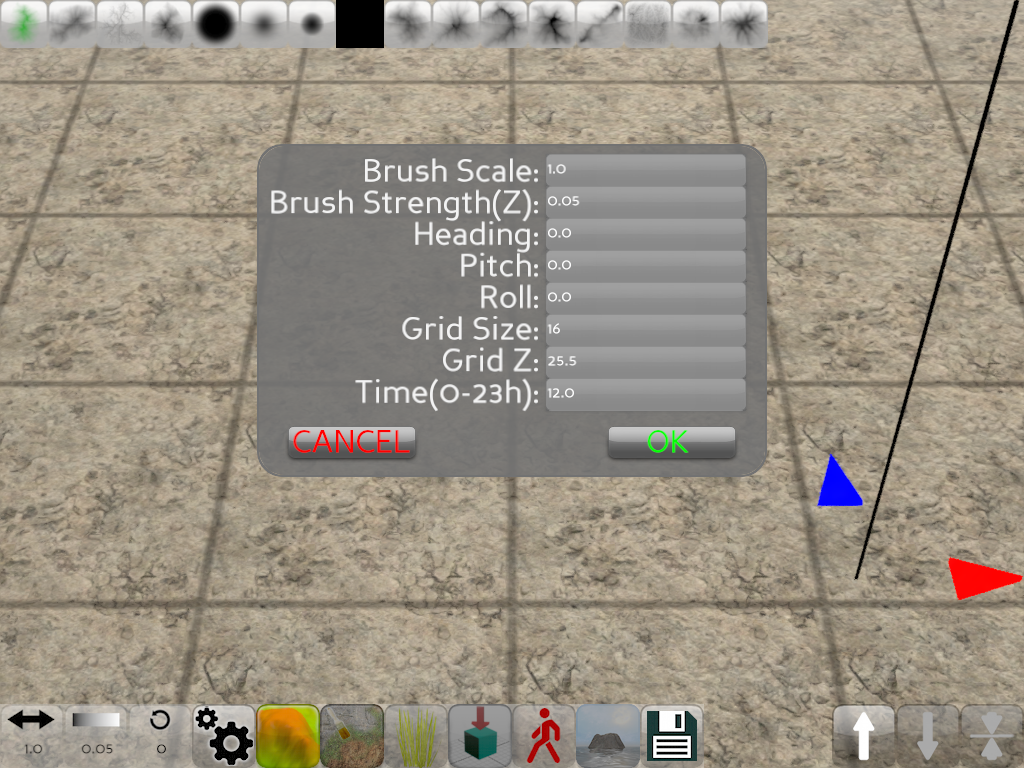
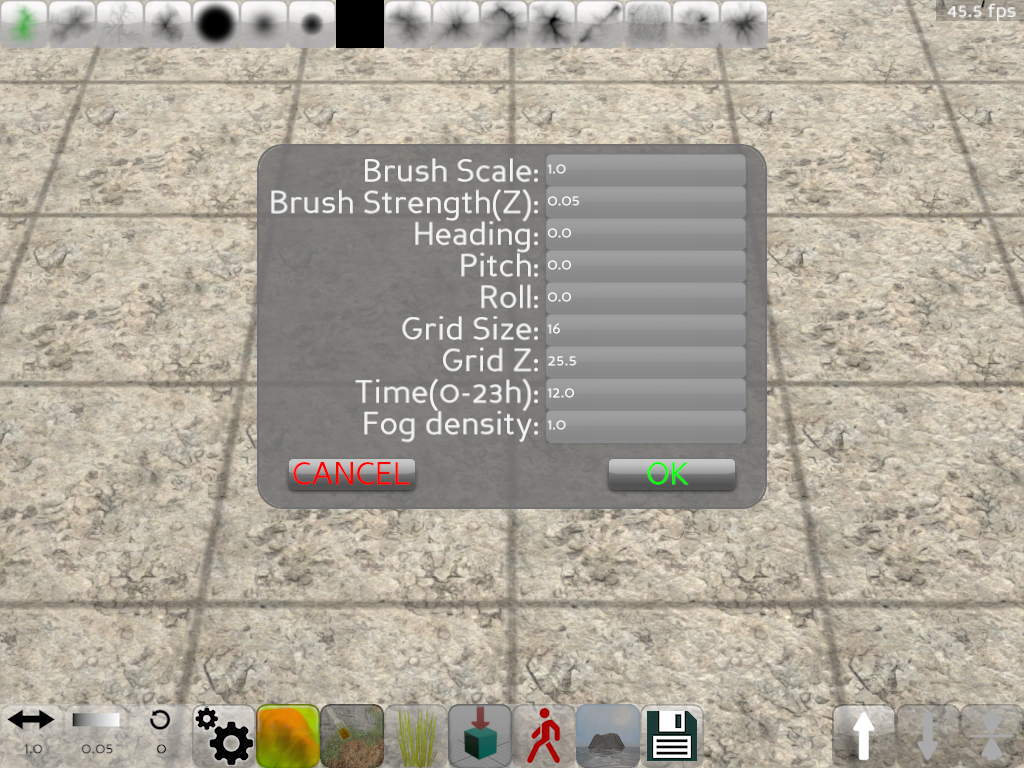
Manual update (+bugfix)

diff --git a/manual/h_brush.html b/manual/h_brush.html
@@ -123,6 +123,7 @@
         <P>
             The position of the brush is controlled with the mouse and displayed as a vertical line with two triangle arrows (blue and red) at one end (called the 3D cursor). The brush is automatically moved to where the mouse cursor points, but not to a point on the terrain mesh but on the grid plane. 
         </P>
+        <P>In recent versions of the editor you can use a option called gl-picking - without going into to much detail, it is enough to say that using this option the 3D cursor is placed directly on the terrain mesh and not on the grid plane. It has a performance impact and it's disabled by default, to enable it change a config variable called "koparka-gl-select" to True (in the cfg.prc file).</P>
         <P>
             The shape of the brush can be selected by clicking on any of the brush shape buttons located at the  top of the window. The currently selected brush is highlighted green.
         </P>
@@ -141,6 +142,11 @@
         <P>
             The strength of the brush can be controlled with W and S keys. Holding down the W key will increase the brush strength, whereas holding down the S key will decrease it. The strength of the brush is actually its transparency, where 0.0 is totally transparent and 1.0 is opaque. Using the Raise and Lower paint modes the strength controls how fast the feature is applied, using the Level mode it sets the desired level (height). At all times the current strength of the brush is displayed as a numerical value on the second icon in the bottom left corner of the window.
         </P>
+        <P>In recent versions of the editor you can also change the size, strength and rotation of a brush by clicking the appropriate icon and adjusting a pop-up slider.</P>        
+        <DIV class="img">
+            <IMG src="img/slider.png">             
+            <H4>A pop-up slider</H4>
+        </DIV>
         <P>
             Like other brush setting it can also be set using the configuration dialog. 
         </P>  

diff --git a/manual/t_brush.html b/manual/t_brush.html
@@ -114,6 +114,10 @@
     <P>
     To paint a portion of the terrain just hold down the left mouse button. Painting is done in a airbrush fashion – you hold down the left mouse button and move the pointer around, the strength of the brush controls how much of the current texture is spayed onto the terrain. 
     </P>
+    <DIV class="img">
+            <IMG src="img/screen22_small.png"> 
+        </DIV>
+    <H4>Blended textures</H4>    
     <P>
     The position of the brush is controlled with the mouse and displayed as a vertical line with two triangle arrows (blue and red) at one end (called the 3D cursor). The brush is automatically moved to where the mouse cursor points, but not to a point on the terrain mesh but on the grid plane.
     </P>
@@ -135,9 +139,10 @@
     <P>    
     The strength of the brush can be controlled with W and S keys. Holding down the W key will increase the brush strength holding down the S key will decrease it. The strength of the brush is actually it’s transparency, where 0.0 is total transparent and 1.0 is opaque. This feature allows to paint blends between the 6 base textures – for example if some of the textures represent rock, sand and grass, then you can paint a portion of the terrain that shares these 3 textures even all 6 textures if that’s what you want. 
     </P>
-   <DIV class="img">
-            <IMG src="img/screen22_small.png"> 
+    <P>In recent versions of the editor you can also change the size, strength and rotation of a brush by clicking the appropriate icon and adjusting a pop-up slider.</P>        
+        <DIV class="img">
+            <IMG src="img/slider.png">             
+            <H4>A pop-up slider</H4>
         </DIV>
-    <H4>Blended textures</H4>
-    </DIV>
+   </DIV>
 </BODY>

diff --git a/manual/g_brush.html b/manual/g_brush.html
@@ -117,6 +117,10 @@
     <P>
     You can remove grass by clicking on the big red X - this changes the brush to a eraser, you can now remove patches of grass in the same way you would paint them – hold down the left mouse button and move the cursor.
     </P>
+    <DIV class="img">
+            <IMG src="img/screen14_small.png"> 
+        </DIV>
+        <H4>Blended grass textures</H4>
     <P>
     The position of the brush is controlled with the mouse and displayed as a vertical line with two triangle arrows (blue and red) at one end (called the 3D cursor). The brush is automatically moved to where the mouse cursor points, but not to a point on the terrain mesh but on the grid plane.
     </P>
@@ -138,9 +142,11 @@
     <P>
     The strength of the brush can be controlled with W and S keys. Holding down the W key will increase the brush strength holding down the S key will decrease it. The strength of the brush is most important when you want to mix two or more grass textures. 
     </P>
-    <DIV class="img">
-            <IMG src="img/screen14_small.png"> 
+    <P>In recent versions of the editor you can also change the size, strength and rotation of a brush by clicking the appropriate icon and adjusting a pop-up slider.</P>        
+        <DIV class="img">
+            <IMG src="img/slider.png">             
+            <H4>A pop-up slider</H4>
         </DIV>
-        <H4>Blended grass textures</H4>
+    
     </DIV>
 </BODY>

diff --git a/manual/config_time.html b/manual/config_time.html
@@ -108,7 +108,7 @@
             <IMG src="img/config.png"> 
         </DIV>    
     <P>
-    The editor allows to view the map at any given time of day, from dawn to dusk, at noon or midnight and any time in between.  Setting the time changes the position and color of the sun, sky, clouds and fog.
+    The editor allows to view the map at any given time of day, from dawn to dusk, at noon or midnight and any time in between.  Setting the time changes the position and color of the sun, sky, clouds and fog. The density of the fog can also be controlled independently, this setting only affects what is seen in the editor and is not saved in the map files.
     </P>
     <DIV class="img">
             <IMG src="img/screen6_small.png"> 

diff --git a/manual/overview.html b/manual/overview.html
@@ -133,6 +133,9 @@
     You can rotate the brush using Q(left) and E (right) keys.
     </P>
     <P>
+    In recent versions of the editor you can also change the size, strength and rotation of a brush by clicking the appropriate icon and adjusting a pop-up slider.
+    </P>
+    <P>
     In modes that use the brush for painting, the shape of the brush can be selected by clicking on one of the icons in the top row. The currently selected brush is highlighted green. 
     </P>
     <P>

diff --git a/main.py b/main.py
@@ -920,6 +920,8 @@ class Editor (DirectObject):
             #self.mesh.setShaderInput("z_scale", TerrainScale)
             render.setShaderInput("z_scale", TerrainScale)
             self.mesh.setShaderInput("tex_scale", TerrainTile)
+            if cfg['use_gl_select']:
+                self.painter.setupGlSelect(self.painter.textures[BUFFER_HEIGHT], TerrainScale)
             if WaterLevel>0.0:
                 self.wBuffer.setActive(True)
                 self.waterNP.show()

diff --git a/buffpaint.py b/buffpaint.py
@@ -71,7 +71,6 @@ class BufferPainter ():
         state_np.setShader(Shader.load(Shader.SLGLSL, "shaders/pick_v.glsl","shaders/pick_f.glsl"),1)
         state_np.setShaderInput("height", height)
         state_np.setShaderInput("z_scale", scale)
-        state_np.setShaderInput("fubar", 0.5)
         #state_np.setAttrib(shaderAtt, 1)        
         node.setInitialState(state_np.getState())
         
